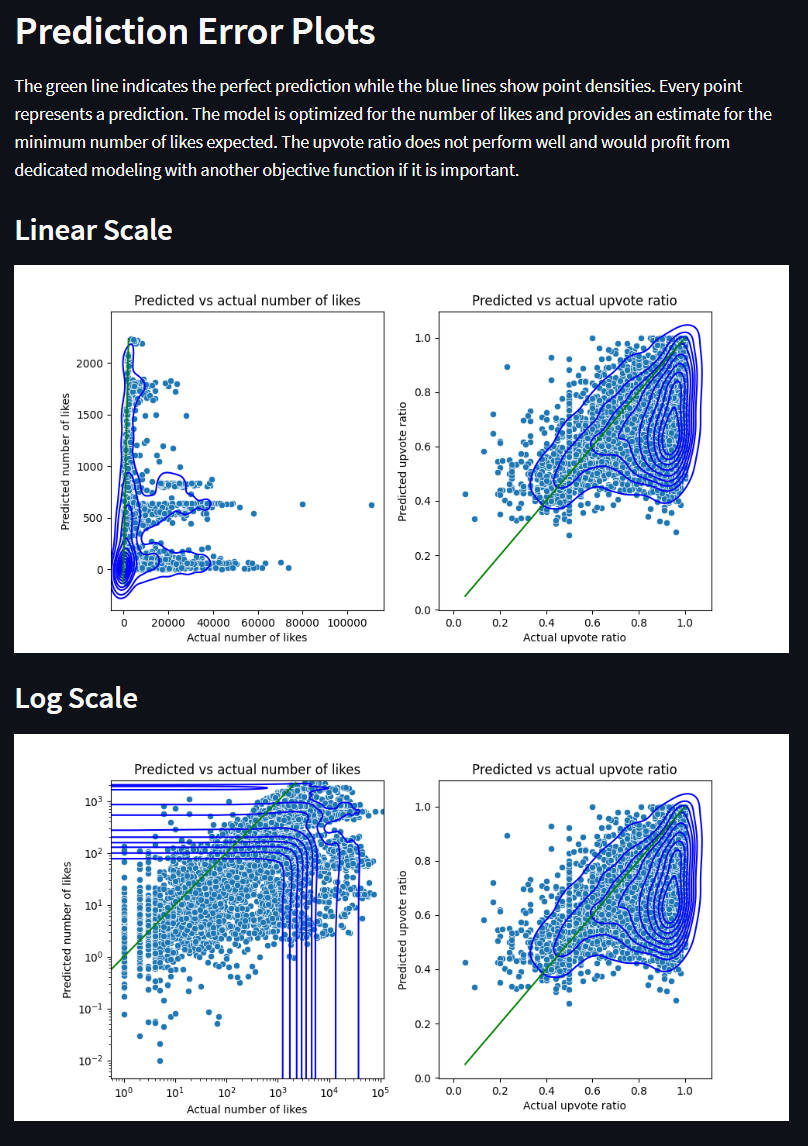
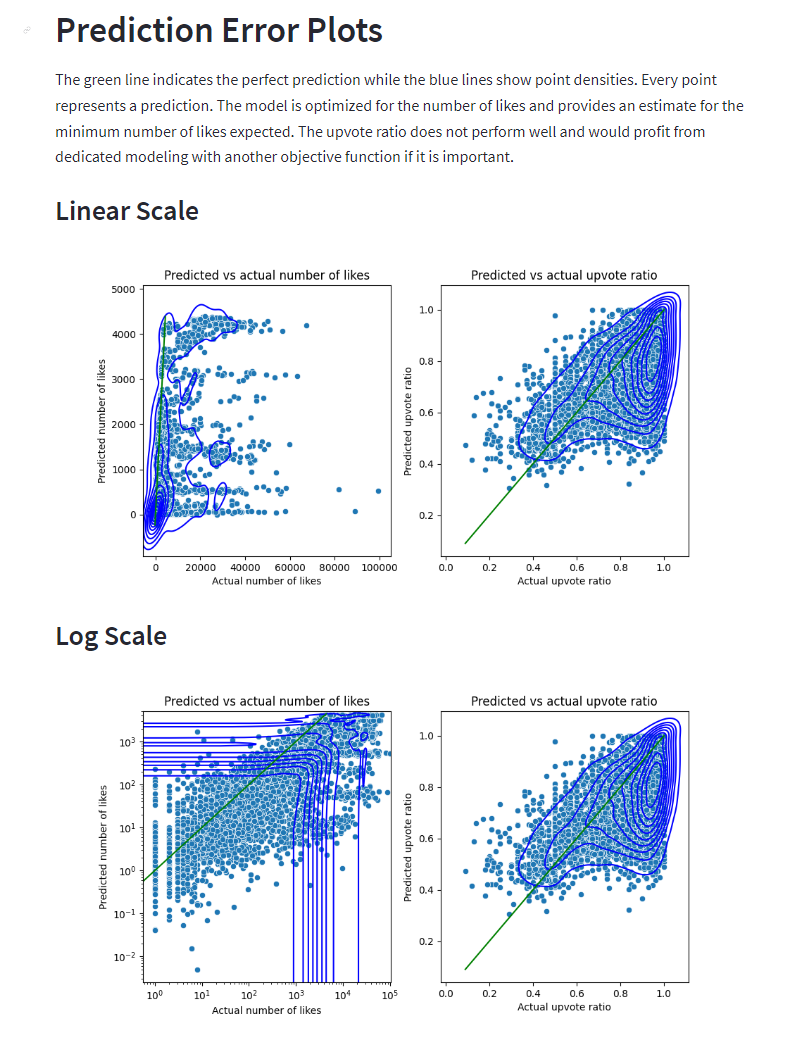
Update Huggingface apps & add documentation for them

diff --git a/huggingface-dashboard/app.py b/huggingface-dashboard/app.py
@@ -1,0 +1,129 @@
+import os
+import hopsworks
+import pandas as pd
+import streamlit as st
+import seaborn as sns
+import matplotlib.pyplot as plt
+from warnings import warn
+
+is_local=False
+if is_local:
+    from dotenv import load_dotenv
+    load_dotenv()
+
+MODEL_VERSION=22
+
+@st.experimental_memo
+def load_data():
+    project = hopsworks.login()
+    fs = project.get_feature_store()
+
+    try:
+        posts_fg = fs.get_feature_group("reddit_posts", version=os.getenv("POSTS_FG_VERSION", default=1))
+        users_fg = fs.get_feature_group("reddit_users", version=os.getenv("USERS_FG_VERSION", default=1))
+        subreddits_fg = fs.get_feature_group("reddit_subreddits", version=os.getenv("SUBREDDITS_FG_VERSION", default=1))
+        full_join = posts_fg.select(features=["post_id", "snapshot_time", "num_likes", "upvote_ratio"]).join(
+                            users_fg.select(features=["user_id", "snapshot_time"]), on=["user_id", "snapshot_time"]).join(
+                                subreddits_fg.select(features=["subreddit_id", "snapshot_time"]), on=["subreddit_id", "snapshot_time"])
+        df = full_join.read()
+    except Exception as e:
+        warn("Could not load data from feature store (most likely due to Port issues with Hopsworks). Trying to load the data from the model registry instead. Full exception:")
+        warn(str(e))
+        df = None
+
+    # Load model including the generated images and evaluation scores
+    mr = project.get_model_registry()
+    model_hsfs = mr.get_model("reddit_predict", version=MODEL_VERSION)
+    model_dir = model_hsfs.download()
+    print("Model directory: {}".format(model_dir))
+
+    metric_rows = {}
+    metrics_avail = [m.replace("_likes","") for m in model_hsfs.training_metrics if "_likes" in m]
+    for target in ["likes", "upvote_ratio"]:
+        metric_rows[target] = []
+        for metric in metrics_avail:
+            metric_rows[target].append(model_hsfs.training_metrics[f"{metric}_{target}"])
+    df_metrics = pd.DataFrame(metric_rows, index=metrics_avail)
+    
+    if df is None:
+        try:
+            df = pd.read_pickle(os.path.join(model_dir, "df_dashboard.pkl"))
+        except:
+            warn("Failed to load data from both the feature store and the model directory. Please upload the data to the model directory manually.")
+
+    plots = {
+        "predictions": plt.imread(f"{model_dir}/prediction_error.png"),
+        "predictions_logscale": plt.imread(f"{model_dir}/prediction_error_logscale.png"),
+        "confusion_matrix": plt.imread(f"{model_dir}/confusion_matrix.png"),
+        "shap_numlikes": plt.imread(f"{model_dir}/shap_summary_plot_num_likes.png"),
+        "shap_upvote_ratio": plt.imread(f"{model_dir}/shap_summary_plot_upvote_ratio.png"),
+        "shap_numlikes_compact": plt.imread(f"{model_dir}/shap_summary_plot_compact.png")
+    }
+
+    return df, plots, df_metrics
+
+
+df, plots, df_metrics = load_data()
+
+if df is None:
+    st.error("Could not load data from feature store or model directory as Huggingface has compatibility issues with parts of the data read API from Hopsworks.")
+    st.stop()
+
+# create a distribution plot of the number of likes using seaborn
+st.title("Like It or Not")
+st.markdown("This is the dashboard for the Like It Or Not model that predict the number of likes and the upvote ratio that a Reddit post is going to get.")
+
+# Data stats
+st.markdown("## Data Statistics")
+col1, col2, col3 = st.columns(3)
+col1.metric("Unqiue Posts", str(df["post_id"].nunique()))
+col2.metric("Unique Users", str(df["user_id"].nunique()))
+col3.metric("Unique Subreddits", str(df["subreddit_id"].nunique()))
+
+# Distribution of the target variables
+col1, col2 = st.columns(2)
+col1.markdown("### Distribution of Number of Likes")
+col2.markdown("### Distribution of Upvote Ratio")
+col1, col2 = st.columns(2)
+fig, ax = plt.subplots()
+sns.histplot(df["num_likes"], ax=ax)
+ax.set_ylabel("Number of posts")
+ax.set_xlabel("Number of likes (log scale)")
+ax.set_xscale("log")
+plt.tight_layout()
+col1.pyplot(fig)
+
+fig2, ax = plt.subplots()
+sns.distplot(df["upvote_ratio"], ax=ax, kde=False)
+ax.set_ylabel("Number of posts")
+plt.tight_layout()
+col2.pyplot(fig2)
+
+# Performance metrics
+st.markdown("## Performance Metrics")
+st.markdown("The model achieved the below scores on the test set. Please keep the effect of the sample weights in mind as explained in the Github repository. These reduce for example the R2 score from 0.75 to roughly 0.05. However, despite these low scores, the model is more useful in practice as it provides a meaningful lower bound estimate of the likes to be received as opposed to overestimating every post by up to 1500")
+st.dataframe(df_metrics)
+
+# Prediction error plots
+st.markdown("## Prediction Error Plots")
+st.markdown("The green line indicates the perfect prediction while the blue lines show point densities. Every point represents a prediction. The model is optimized for the number of likes and provides an estimate for the minimum number of likes expected. The upvote ratio does not perform well and would profit from dedicated modeling with another objective function if it is important.")
+st.markdown("### Linear Scale")
+st.image(plots["predictions"])
+st.markdown("### Log Scale")
+st.image(plots["predictions_logscale"])
+
+# Confusion matrix
+st.markdown("## Confusion Matrix")
+st.markdown("After mapping the predicted number of likes to categories, the following confusion matrix can be obtained:")
+st.image(plots["confusion_matrix"])
+
+# Shap plots
+st.markdown("## Shap Evaluation")
+st.markdown("Shap values are an approach to machine learning explainability where the magnitude and kind of impact (positive / negative) of all features is computed." +
+"Below, you see a beeswarm plot obtained on the predictions on the test data where every point represents a sample, its color tells if the feature had a high or low value " +
+"and its position tells if the feature had a positive or negative impact on the prediction.")
+st.image(plots["shap_numlikes"])
+
+st.markdown("In addition, it is possible to sum up and average the absolute impact of all features over all samples. " +
+            "The result can be interpreted as the feature importance. For the embedding features, we summed the values of the individual dimensions.")
+st.image(plots["shap_numlikes_compact"])

diff --git a/huggingface-interactive-ui/app.py b/huggingface-interactive-ui/app.py
@@ -6,6 +6,7 @@ import hopsworks
 import pandas as pd
 import joblib
 import traceback
+import matplotlib.pyplot as plt
 from warnings import warn
 
 # Deal with import paths that are different for the main_repo submodule files
@@ -21,7 +22,15 @@ from main_repo.utils.feature_processing import (extract_user_features,
                                                 get_sentiment,
                                                 contains_tldr,
                                                 get_subreddit_names,)
-from main_repo.utils.training import post_process_predictions
+from main_repo.utils.training import post_process_predictions, generate_shap_forceplot
+
+is_local=False
+if is_local:
+    from dotenv import load_dotenv
+    load_dotenv()
+
+MODEL_VERSION=22
+
 
 def get_features(user_name: str, subreddit_name: str, post_title: str, post_text: str, post_date: datetime, post_time: datetime):
     now = datetime.datetime.utcnow()
@@ -95,7 +104,7 @@ def get_features(user_name: str, subreddit_name: str, post_title: str, post_text
 def load_model():
     project = hopsworks.login()
     mr = project.get_model_registry()
-    model_hsfs = mr.get_model("reddit_predict", version=16)
+    model_hsfs = mr.get_model("reddit_predict", version=MODEL_VERSION)
     model_dir = model_hsfs.download()
     model = joblib.load(model_dir + "/reddit_model.pkl")
     return model
@@ -123,7 +132,6 @@ def query_model():
     like_label, like_description, like_emoji = get_like_category(pred_num_likes)
     ratio_label, ratio_description, ratio_emoji = get_ratio_category(pred_upvote_ratio)
 
-    # Introduction
     st.markdown("# Like It Or Not")
     st.markdown("A machine learning service that predicts the number of likes and upvote ratio of your Reddit post before you submit it. The initial computation may take a few seconds, as the model must be downloaded. Please be patient.")
 
@@ -133,13 +141,17 @@ def query_model():
     col2.metric("Upvote Ratio", str(pred_upvote_ratio) + "% " + ratio_emoji)
     st.markdown(f"{like_description} You can expect an upvote ratio of {pred_upvote_ratio} which means that {pred_upvote_ratio}% of the people who see your post will upvote it (and {round(100-pred_upvote_ratio, 2)}% will downvote it). {ratio_description}")
 
+    st.markdown("## Explanation")
+    st.markdown("Below you can see how different features of your post affected the final prediction. " + 
+                "The diagram shows the default value that would have been predicted in case no features about your post were known. " +
+                "In addition, every feature is associated with a bar the color and length of which indicate the magnitude and type of impact it had on the prediction. " +
+                "A long bar with red color states that the feature increased the prediction value by a large amount. " +
+                "The exact meaning of the feature names and their values can be found at the [main Github repository](https://github.com/Neproxx/ID2223-LikeItOrNot). ")
+    generate_shap_forceplot(model, df_features, output_dir="reddit_model", clear_figure=False)
+    st.pyplot(plt.gcf(), clear_figure=False)
+
     st.session_state.has_predicted = True
 
-    # TODO: Get most impactful features with shap
-    #st.markdown("## Explanation")
-    #st.write("The predicted number of likes and upvote ratio are based on a machine learning model that was trained on data from Reddit.")
-    #st.write("The impactful features table shows the features that had the biggest impact on the prediction according to the SHAP values of the model.")
-    #impactful_features.table(...)
 
 def get_like_category(num_likes, include_emoji=True):
     # 0-10, 11-100, 101-1000, 1000+

diff --git a/utils/training.py b/utils/training.py
@@ -480,6 +480,23 @@ def upload_model_to_hopsworks(model: Pipeline, X_train, y_train, metrics, model_
     joblib.dump(model, model_dir + "/reddit_model.pkl")
     print(f"Model saved to disk: {os.path.isfile(model_dir + '/reddit_model.pkl')}")
 
+    ### Upload dashboard data to model directory
+    # Huggingface has problems reading from Hopsworks due to port issues
+    # Therefore, we upload the required data to the model directory here already
+    try:
+        fs = project.get_feature_store()
+        posts_fg = fs.get_feature_group("reddit_posts", version=os.getenv("POSTS_FG_VERSION", default=1))
+        users_fg = fs.get_feature_group("reddit_users", version=os.getenv("USERS_FG_VERSION", default=1))
+        subreddits_fg = fs.get_feature_group("reddit_subreddits", version=os.getenv("SUBREDDITS_FG_VERSION", default=1))
+        full_join = posts_fg.select(features=["post_id", "snapshot_time", "num_likes", "upvote_ratio"]).join(
+                            users_fg.select(features=["user_id", "snapshot_time"]), on=["user_id", "snapshot_time"]).join(
+                                subreddits_fg.select(features=["subreddit_id", "snapshot_time"]), on=["subreddit_id", "snapshot_time"])
+        df_dashboard = full_join.read()
+        df_dashboard.to_pickle(os.path.join(model_dir, "df_dashboard.pkl"))
+    except Exception as e:
+        print(f"Could not upload dashboard data to model directory: {e}")
+    ### 
+
     # Specify the schema of the model's input/output (names, data types, ...)
     input_schema = Schema(X_train)
     output_schema = Schema(y_train)

diff --git a/README.md b/README.md
@@ -165,3 +165,9 @@ Hopsworks sometimes has connection issues which can render the services implemen
 <img src="media/dashboard-1.PNG" alt="Screenshot dashboard - 1" width="750"/>
 
 <img src="media/dashboard-2.PNG" alt="Screenshot dashboard - 2" width="750"/>
+
+<img src="media/dashboard-3.PNG" alt="Screenshot dashboard - 3" width="750"/>
+
+<img src="media/dashboard-4.PNG" alt="Screenshot dashboard - 4" width="750"/>
+
+<img src="media/dashboard-5.PNG" alt="Screenshot dashboard - 5" width="750"/>
